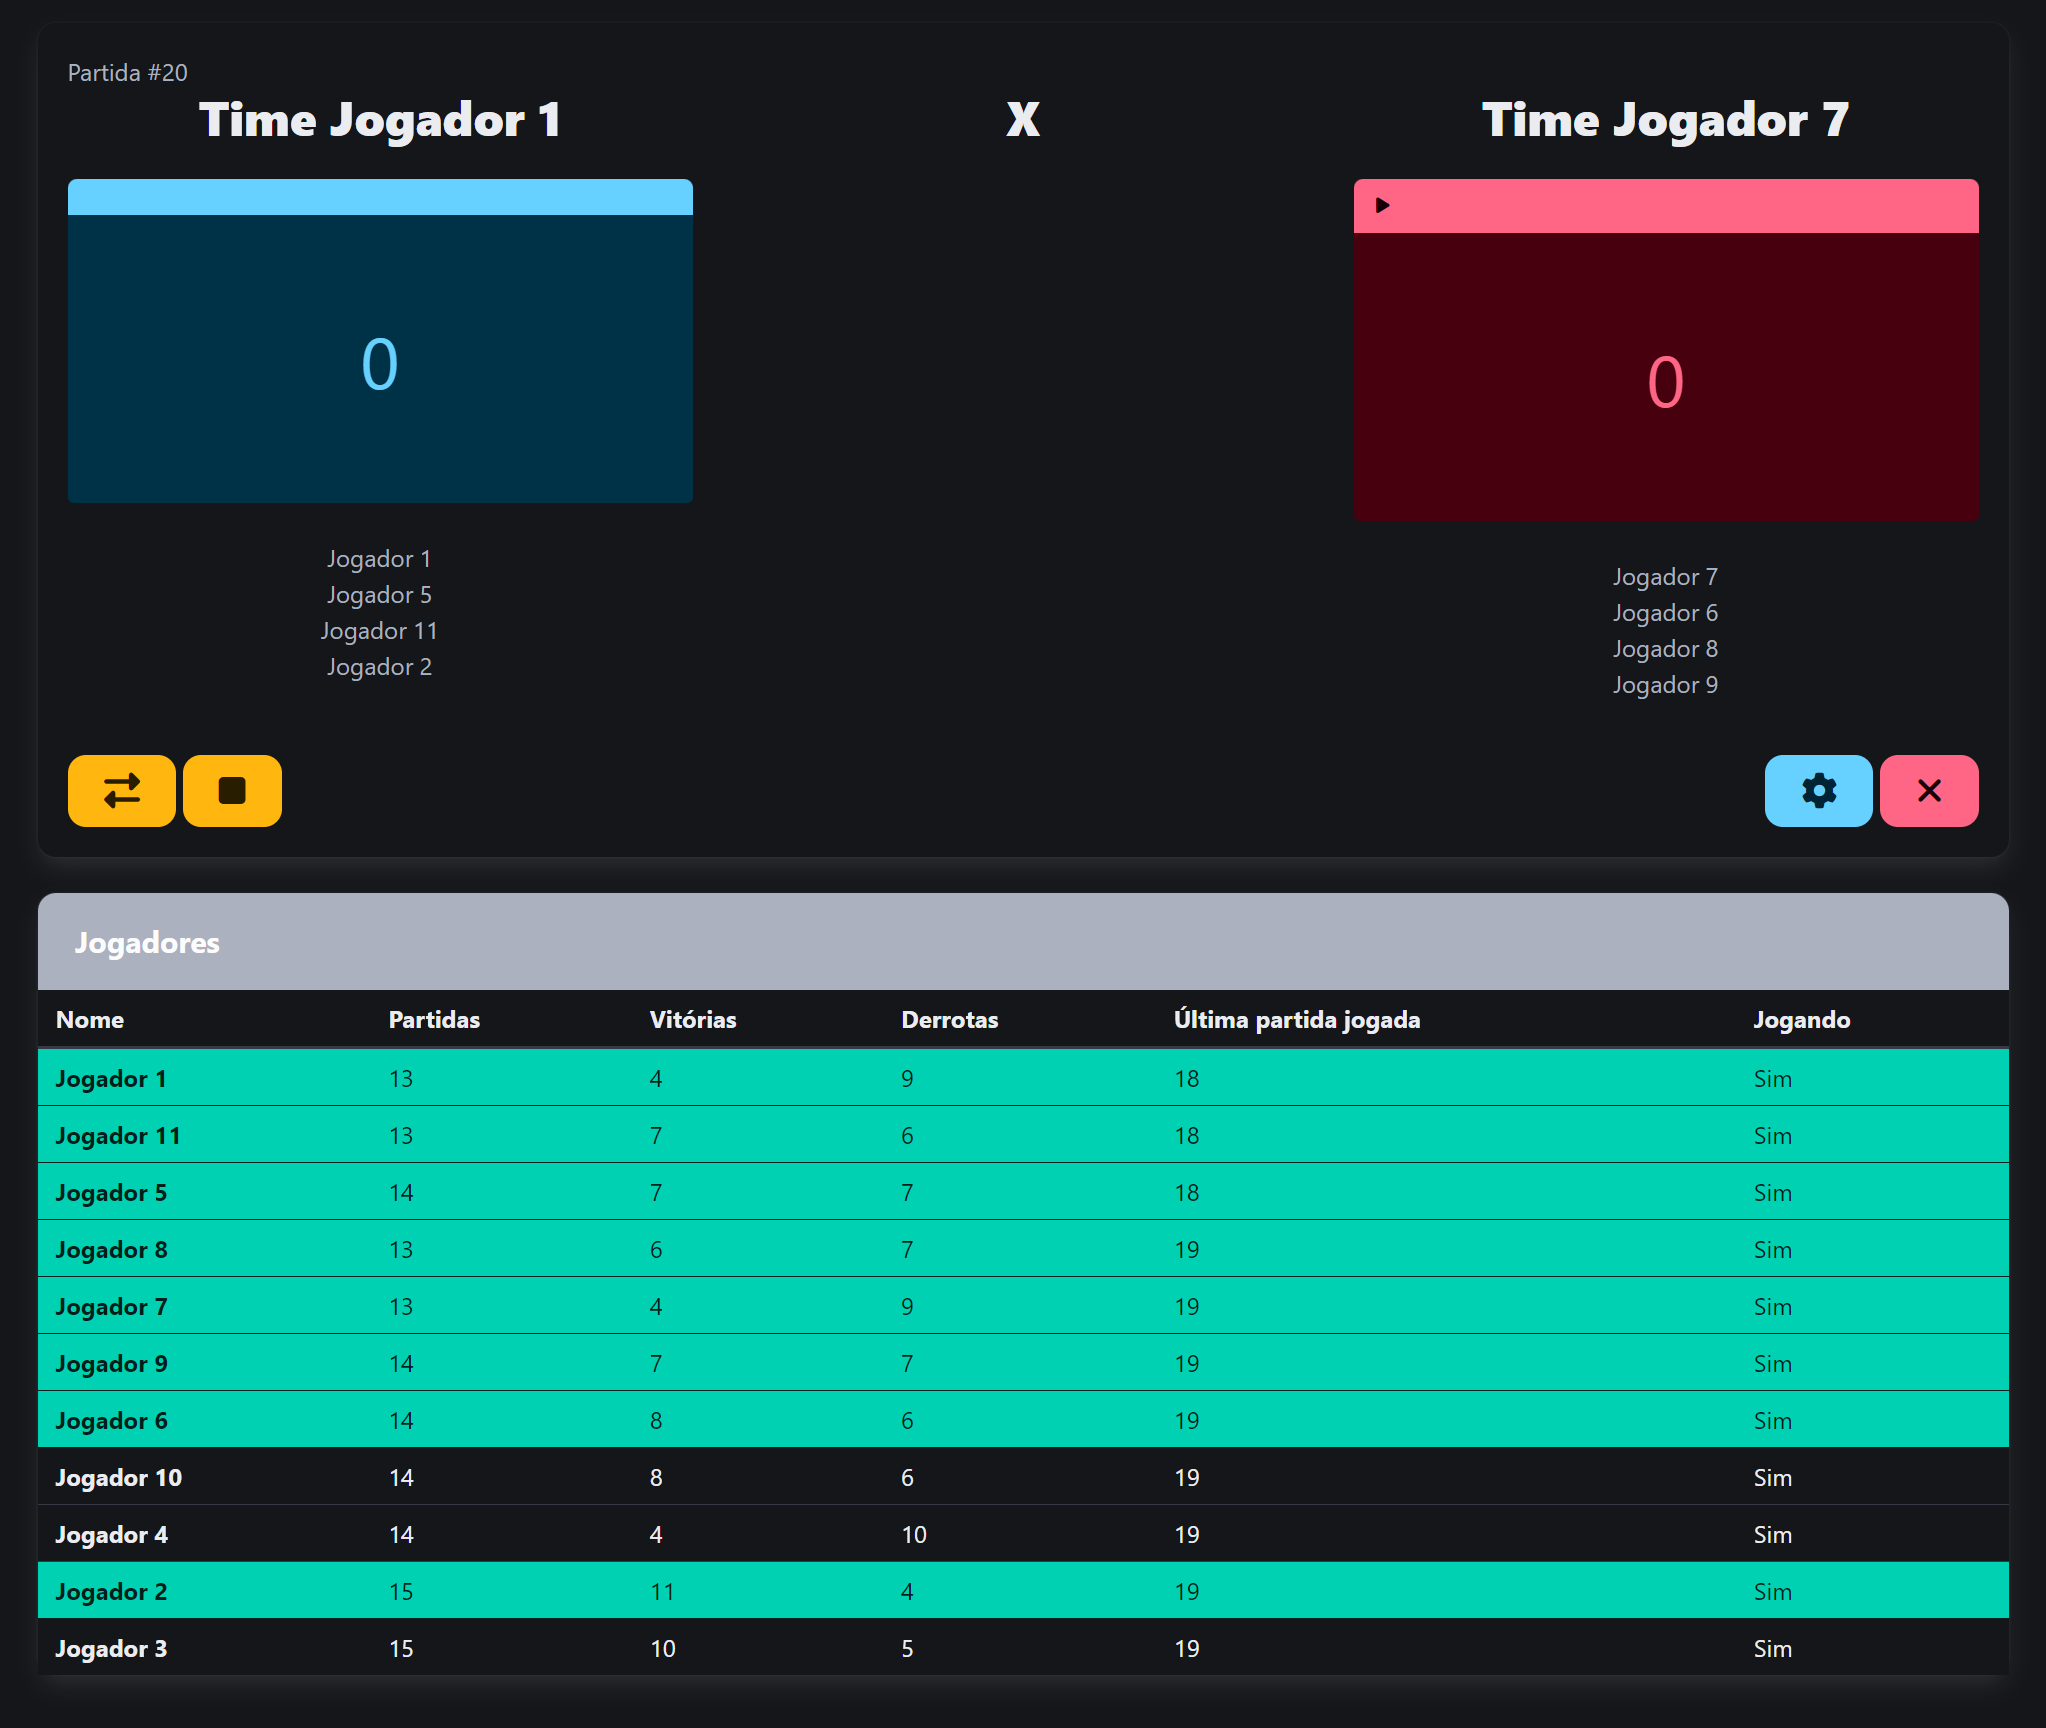
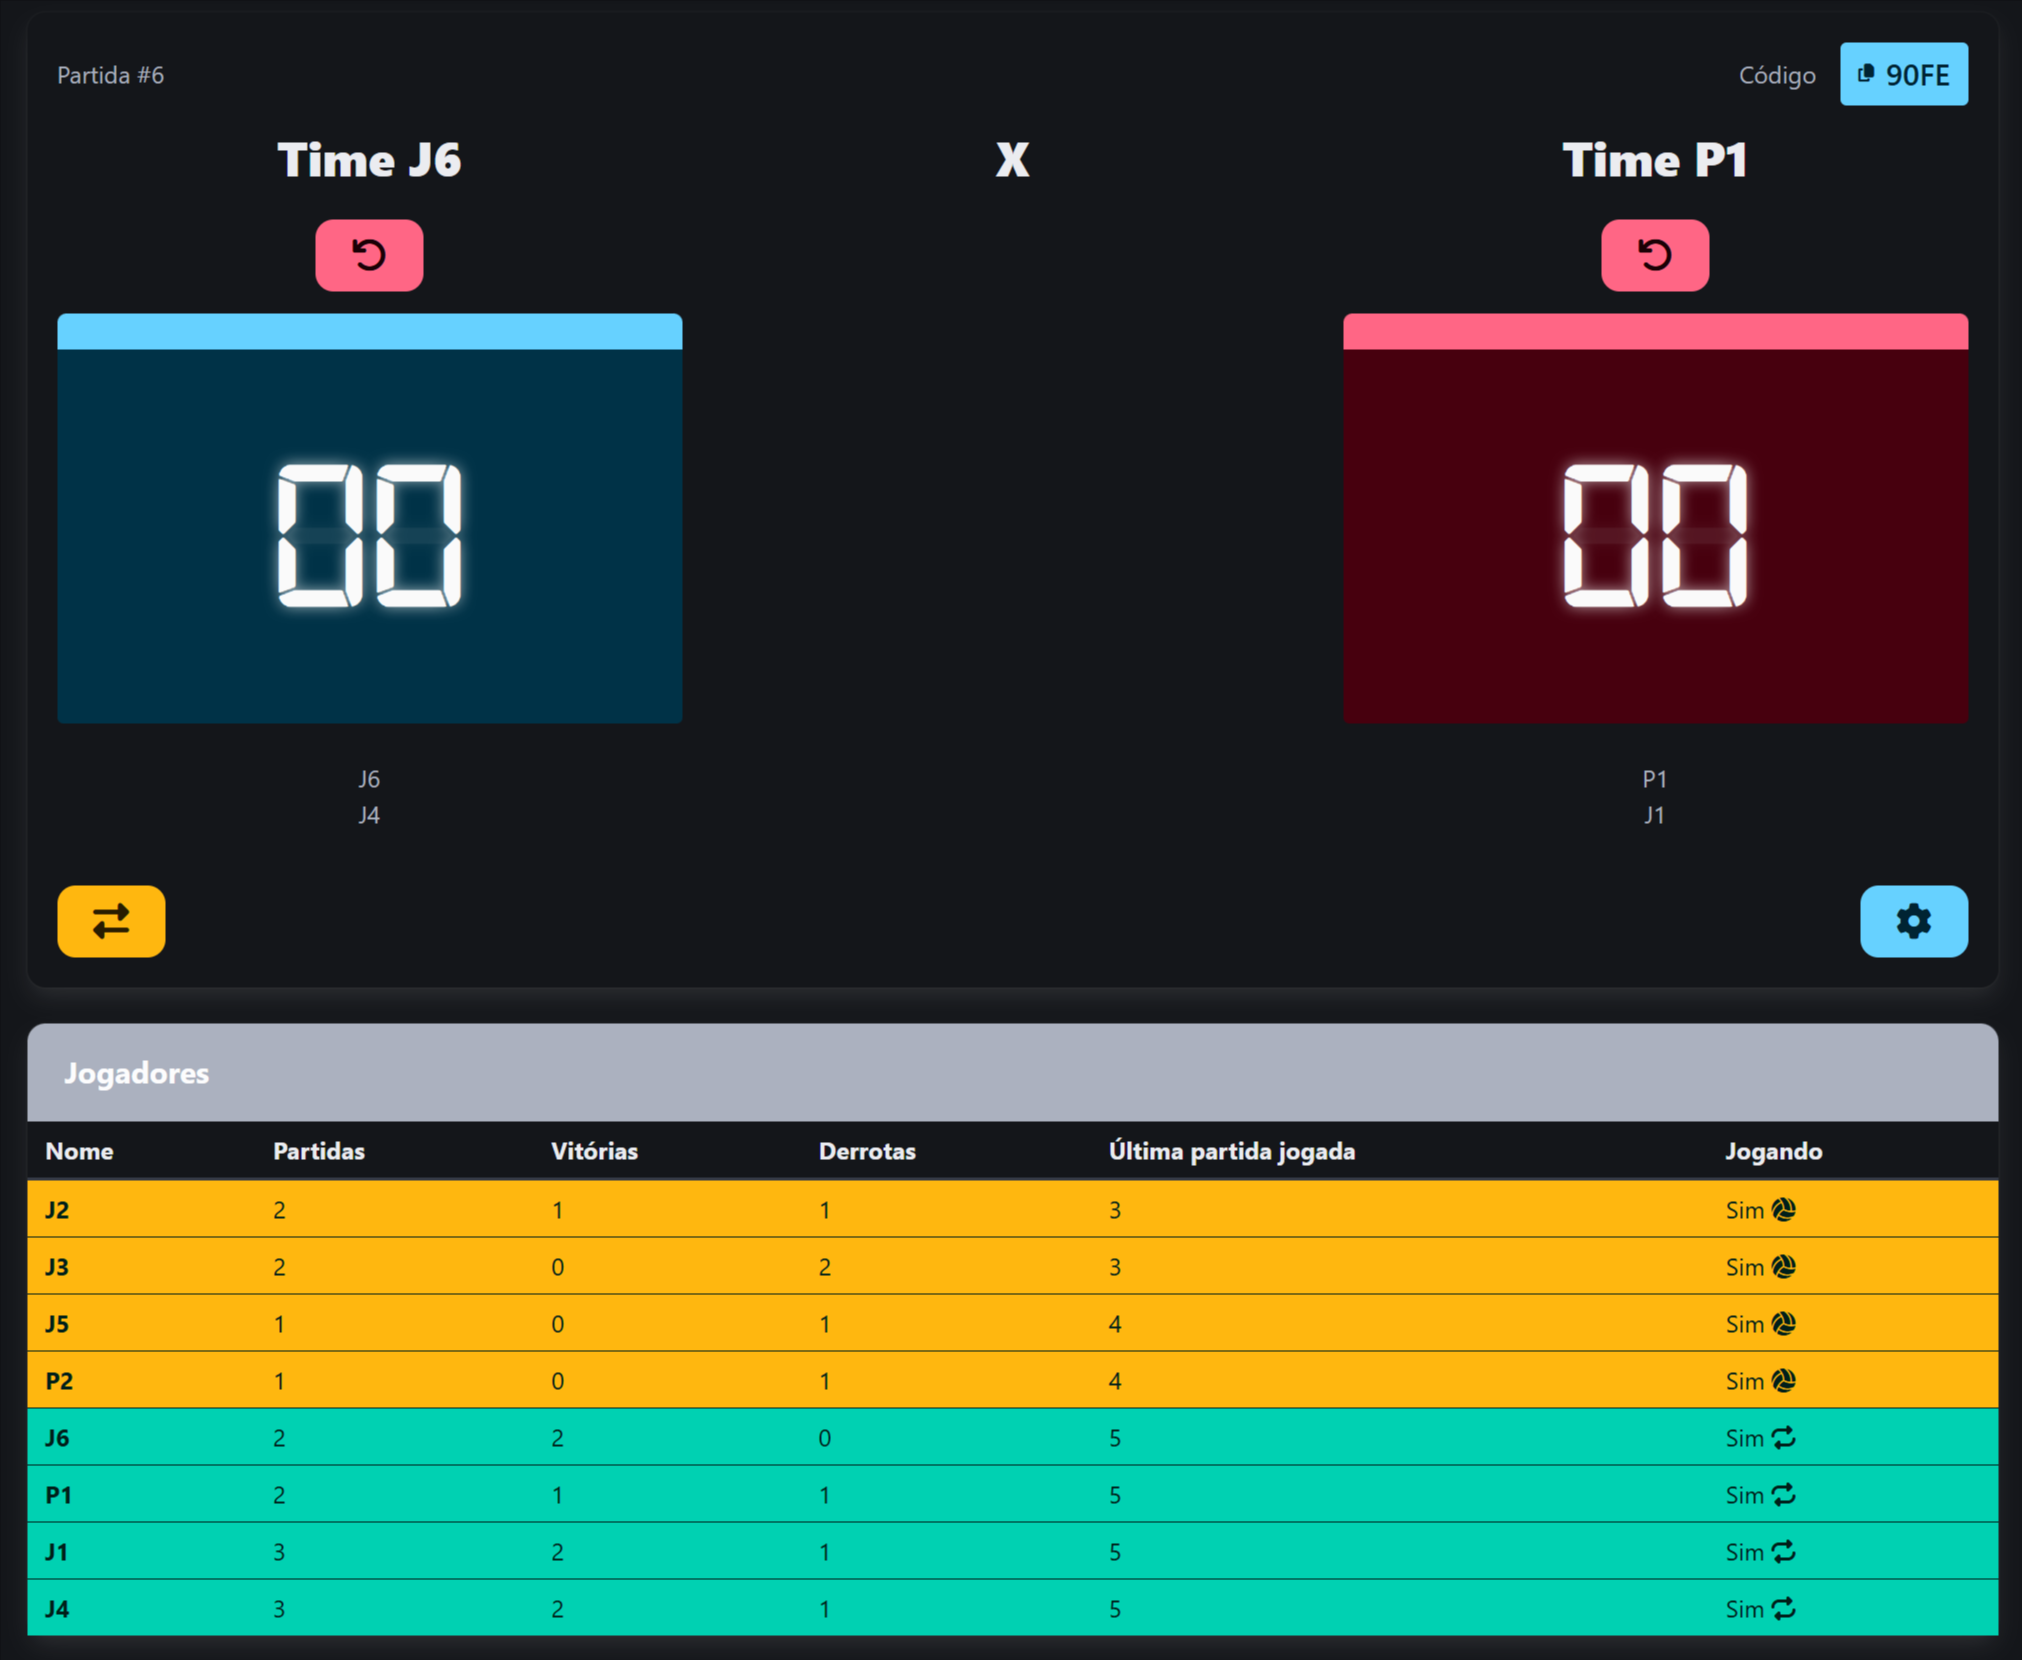
button to start new match; confirm match result

diff --git a/index.js b/index.js
@@ -16,8 +16,9 @@ let currentId = 0;
 let autoSwitchTeamsPoints = 0;
 let joinCode = '';
 let lastGameDayMatch = 0;
-let courtId = null
+let courtId = null;
 const localStorage = window.localStorage;
+let playersToNextGame = [];
 
 const createSpinner = (id) => {
     const wrapper = document.createElement('span');
@@ -77,15 +78,10 @@ socket.on('game-day:updated',  async () => {
     lastGameDayMatch = activeGame.lastMatch;
     currentId = activeGame.id;
     joinCode = activeGame.joinCode;
-    courtId = activeGame.courtId || null
-    
-    if(playingTeams.length === 0) {
-        const playersToTeam = findNextMatchPlayers()
-        if(playersToTeam.length > 0) {
-            playingTeams = await generateTeams(playersToTeam);
-            await upsertGameDay();   
-        }
-    }
+    courtId = activeGame.courtId || null;
+    playersToNextGame = activeGame.playersToNextGame || [];
+
+    // await upsertGameDay();
     
     $('#add-new-player-select').empty();
     getPlayers()
@@ -96,7 +92,7 @@ socket.on('game-day:updated',  async () => {
 
 
     currentMatchMaxPoints = maxPoints;
-    updateCurrentMatch(playingTeams);
+    updatePlayerList();
     $("#new-match-day").hide();
     $("#new-match-day-form").hide();
     $("#new-match-day-button").hide();
@@ -208,9 +204,10 @@ async function updateGameDay(isLive = true) {
                 matches,
                 isLive,
                 autoSwitchTeamsPoints,
-                playedOn: new Date()
+                playedOn: new Date(),
+                playersToNextGame,
             })
-        })
+        });
         
         if(response.ok){
             socket.emit("game-day:updated", currentId);
@@ -337,7 +334,7 @@ function updatePlayerList() {
     const rows = playersToList.map(player => {
         const isPlayingHere = playingTeams.flat().some(p => p.name === player.name);
         const isPlayingSomewhereElse = otherPlayingTeams.flat().some(p => p.name === player.name);
-        const rowClass = isPlayingHere ? 'is-selected' : isPlayingSomewhereElse ? 'is-selected is-warning' : '';
+        const shouldBeOnNextMatch = playersToNextGame.some(p => p.name === player.name);
         const formatter = new Intl.NumberFormat('pt-BR', { maximumFractionDigits: 2, minimumFractionDigits: 2 });
         const elo = devMode ? `${formatter.format(player.mu)}/${formatter.format(player.sigma)}` : '';
         const playingClass = isPlayingSomewhereElse
@@ -345,6 +342,18 @@ function updatePlayerList() {
         : player.playing
         ? 'remove-player is-clickable'
         : 'is-danger remove-player is-clickable';
+
+        let rowClass = '';
+        if (isPlayingHere) {
+            rowClass = 'is-selected';
+        } else if (isPlayingSomewhereElse) {
+            rowClass = 'is-selected is-warning';
+        } else if (shouldBeOnNextMatch) {
+            rowClass = 'is-info';
+        } else {
+            rowClass = player.playing ? 'remove-player is-clickable' : 'is-danger remove-player is-clickable';
+        }
+
         return `
         <tr class="${rowClass}">
             <th>${player.name}</th>
@@ -413,6 +422,9 @@ $("#all-player-list").on("click", ".remove-player", async function() {
     
     const playerIndex = players.findIndex(player => player.name === playerName);
     players[playerIndex].playing = !players[playerIndex].playing;
+
+    // Remove this player from next match
+    playersToNextGame = playersToNextGame.filter(player => player.name !== playerName);
     
     await upsertGameDay();
     updatePlayerList();
@@ -529,7 +541,7 @@ async function updateCurrentMatch(teams) {
 }
 
 $("#start-match-day").click(async function() {
-    const  startMatchDaySpinner = createSpinner('start-match-day-spinner');
+    const startMatchDaySpinner = createSpinner('start-match-day-spinner');
     const button = document.getElementById('start-match-day');
     button.insertAdjacentElement('afterend', startMatchDaySpinner);
     button.setAttribute('disabled', 'disabled');
@@ -552,8 +564,6 @@ $("#start-match-day").click(async function() {
         maxPoints = parseInt($("#max-points").val());
         currentMatchMaxPoints = maxPoints;
         playersPerTeam = $("#players-per-team").val();
-
-        console.log('players', players)
         
         if (playersPerTeam * 2 > players.length) {
             alert("Sem jogadores suficientes para começar a partida.");
@@ -566,7 +576,8 @@ $("#start-match-day").click(async function() {
         .filter(p => p.playing)
         .slice(0, playersPerTeam * 2);
         if(firstPlayers.length < playersPerTeam * 2) {
-            alert("Não há jogadores suficientes para começar a partida.");
+            alert("Não há jogadores suficientes para começar a partida nesta quadra agora.");
+
             return;
         }
         playingTeams = await generateTeams(firstPlayers);
@@ -645,8 +656,18 @@ async function endMatch(victoryTeam) {
         players[playerIndex].sigma = player.sigma;
     });
     
+    // Match is ended, no one is playing
+    playingTeams = [];
     
-    $("#match").hide();
+    $("#team-1-captain").text("");
+    $("#team-2-captain").text("");
+    $("#team-1-players").empty();
+    $("#team-2-players").empty();
+    $("#score-team-1").text("00");
+    $("#score-team-2").text("00");
+
+    updatePlayerList();
+
 }
 
 function findPlayerByName(players, name) {
@@ -691,6 +712,7 @@ function findNextMatchPlayers(winners = []) {
 
 
 async function startNewMatch(winningPlayers) {
+    $("#start-next-match").hide();
     $("#match").show();
     $("#score-team-1").text("00");
     $("#score-team-2").text("00");
@@ -702,9 +724,14 @@ async function startNewMatch(winningPlayers) {
     
     const nextMatchPlayers = findNextMatchPlayers(winningPlayers);
     currentMatchMaxPoints = maxPoints;
+    
+    // Remove players from this match from players next game
+    playersToNextGame = playersToNextGame.filter(player => !findPlayerByName(nextMatchPlayers, player.name));
+
     randomServe();
     await updateCurrentMatch(await generateTeams(nextMatchPlayers));
     await upsertGameDay();
+    updatePlayerList();
 }
 
 function randomServe() {
@@ -746,17 +773,33 @@ $(".score-point").click(async function() {
     }
     
     if (team1Score >= currentMatchMaxPoints && diff >= 2) {
-        await endMatch(0);
-        await startNewMatch(playingTeams[0]);
+        let confirmEndGame = window.confirm(`Time ${playingTeams[0][0].name} venceu a partida? Confirmar para encerrar.`);
+        
+        if (confirmEndGame) {
+            $("#start-next-match").show();
+            playersToNextGame = playersToNextGame.concat(playingTeams[0]);
+            await endMatch(0);
+            await upsertGameDay();
+        }
     } else if (team2Score >= currentMatchMaxPoints && diff >= 2) {
-        await endMatch(1);
-        await startNewMatch(playingTeams[1]);
+        let confirmEndGame = window.confirm(`Time ${playingTeams[1][0].name} venceu a partida? Confirmar para encerrar.`);
+        
+        if (confirmEndGame) {
+            $("#start-next-match").show();
+            playersToNextGame = playersToNextGame.concat(playingTeams[1]);
+            await endMatch(1);
+            await upsertGameDay();
+        }
     }
-    
+
     if (autoSwitchTeamsPoints > 0) {
         const totalPoints = team1Score + team2Score;
         if (totalPoints % autoSwitchTeamsPoints === 0) swapTeams();
     }
+});
+
+$("#start-next-match").click(async function() {
+    await startNewMatch(playersToNextGame);
 });
 
 $(".undo-point").click(function() {
@@ -767,10 +810,12 @@ $(".undo-point").click(function() {
     
     if (teamIndex === "undo-1") {
         team1Score -= 1;
-        $("#score-team-1").text(team1Score >= 0 ? team1Score : 0);
+        const value = team1Score >= 0 ? team1Score : 0;
+        $("#score-team-1").text(value.toString().padStart(2, 0));
     } else if (teamIndex === "undo-2") {
         team2Score -= 1;
-        $("#score-team-2").text(team2Score >= 0 ? team2Score : 0);
+        const value = team2Score >= 0 ? team2Score : 0;
+        $("#score-team-2").text(value.toString().padStart(2, 0));
     }
     
     upsertGameDay();
@@ -867,24 +912,6 @@ $("#change-match-day").click(function() {
     
     $("#players-per-team").val(playersPerTeam);
     $("#max-points").val(maxPoints);
-});
-
-$("#end-current-match").click(async function() {
-    let team1Score = parseInt($("#score-team-1").text());
-    let team2Score = parseInt($("#score-team-2").text());
-    
-    if (team1Score === team2Score) {
-        alert("Partida empatada, não é possível encerrar. Decida um vencedor.");
-        return;
-    }
-    
-    const winningTeam = team1Score > team2Score ? 0 : 1;
-    const losingTeam = 1 - winningTeam;
-    
-    const confirm = window.confirm("Deseja realmente encerrar a partida?");
-    if (confirm) {
-        await startNewMatch(playingTeams[winningTeam], playingTeams[losingTeam]);
-    }
 });
 
 async function swapTeams() {
@@ -1059,4 +1086,11 @@ $(document).ready(async function (){
         }
         socket.emit('join', currentId);
     }
+});
+
+history.pushState(null, null, window.top.location.pathname + window.top.location.search);
+window.addEventListener('popstate', (e) => {
+    e.preventDefault();
+    // Insert Your Logic Here, You Can Do Whatever You Want
+    history.pushState(null, null, window.top.location.pathname + window.top.location.search);
 });

diff --git a/index.html b/index.html
@@ -48,6 +48,30 @@
             display: flex !important;
             padding: 11px 17px !important;
         }
+
+        .select2-container--default .select2-selection--multiple {
+            background-color: hsl(171deg, 100%,calc(9% + 0%));
+            border-color: hsl(171deg, 100%,calc(41% + 0%));
+            border-radius: var(--bulma-input-radius);
+            color: hsl(var(--bulma-input-h), var(--bulma-input-s), var(--bulma-input-color-l));
+        }
+
+        .select2-dropdown {
+            background-color: hsl(171deg, 100%,calc(9% + 0%));
+            border-color: hsl(171deg, 100%,calc(41% + 0%));
+            color: hsl(var(--bulma-input-h), var(--bulma-input-s), var(--bulma-input-color-l));
+        }
+
+        .select2-container--default .select2-results__option[aria-selected=true],
+        .select2-container--default .select2-selection--multiple .select2-selection__choice {
+            background-color: hsl(171deg, 100%,calc(41% + 0%));
+            border-color: black;
+            color: black;
+        }
+
+        .select2-container--default .select2-selection--multiple .select2-selection__choice__remove {
+            color: hsl(171deg, 100%,calc(9% + 0%));  
+        }
     </style>
 
     <link rel="apple-touch-icon" sizes="180x180" href="assets/apple-touch-icon.png">
@@ -144,6 +168,7 @@
                 </div>
                 <div class="cell is-row-span-2 has-text-centered">
                     <h1 class="title">X</h1>
+                    <button id="start-next-match" class="button is-danger is-large" style="margin-top: 160px; display: none">Iniciar próxima partida</button>
                 </div>
                 <div class="cell has-text-centered">
                     <h1 id="team-2-captain" class="title">TEAM 2 CAPTAIN</h1>
@@ -162,7 +187,6 @@
                 <div class="grid">
                     <div class="cell">
                         <button id="swap-current-match" class="button is-warning is-large"><i class="fa-solid fa-right-left"></i></button>
-                        <button id="end-current-match" class="button is-warning is-large"><i class="fa-solid fa-stop"></i></button>
                     </div>
                     <div class="cell  is-col-from-end-1">
                         <button id="change-match-day" class="button is-info is-large"><i class="fa-solid fa-gear"></i></button>
@@ -196,7 +220,7 @@
             <button id="end-court" class="button is-danger is-large" style="display: none;">FINALIZAR QUADRA</button>
             <label class="checkbox">
                 <input type="checkbox" id="dev-mode" />
-                v5.Modo desenvolvedor
+                v6.Modo desenvolvedor
             </label>
         </div>
     </div>
@@ -211,7 +235,7 @@
       integrity="sha256-/JqT3SQfawRcv/BIHPThkBvs0OEvtFFmqPF/lYI/Cxo="
       crossorigin="anonymous"></script>
     <script src="https://cdn.jsdelivr.net/npm/select2@4.0.13/dist/js/select2.min.js"></script>
-    <script type="module" src="./index.js?v=6"></script>
+    <script type="module" src="./index.js?v=7"></script>
     <script>
     const options = window.location.hostname.includes('localhost') || window.location.hostname.includes('ngrok-free.app')
         ? undefined : { scope: '/peladaManager/' };

diff --git a/Readme.md b/Readme.md
@@ -1,2 +1,13 @@
-😁
+# Gerenciador de Peladas
+
+Com esse APP fica muito mais fácil você gerenciar sua pelada, de qualquer esporte que seja. 
+
+É possível adicionar os jogadores, definir os placares e montar os times de forma extremamente rápida.
+
 ![Imagem do projeto](https://raw.githubusercontent.com/YuriAlessandro/peladaManager/main/assets/image.png)
+
+## Para desenvolver
+
+Você precisa rodar o backend, que está no seguinte repositório: [https://github.com/isaacbatst/pelada-manager-backend](https://github.com/isaacbatst/pelada-manager-backend)
+
+Após isso, só colocar o `index.html` para rodar em qualquer live service.
